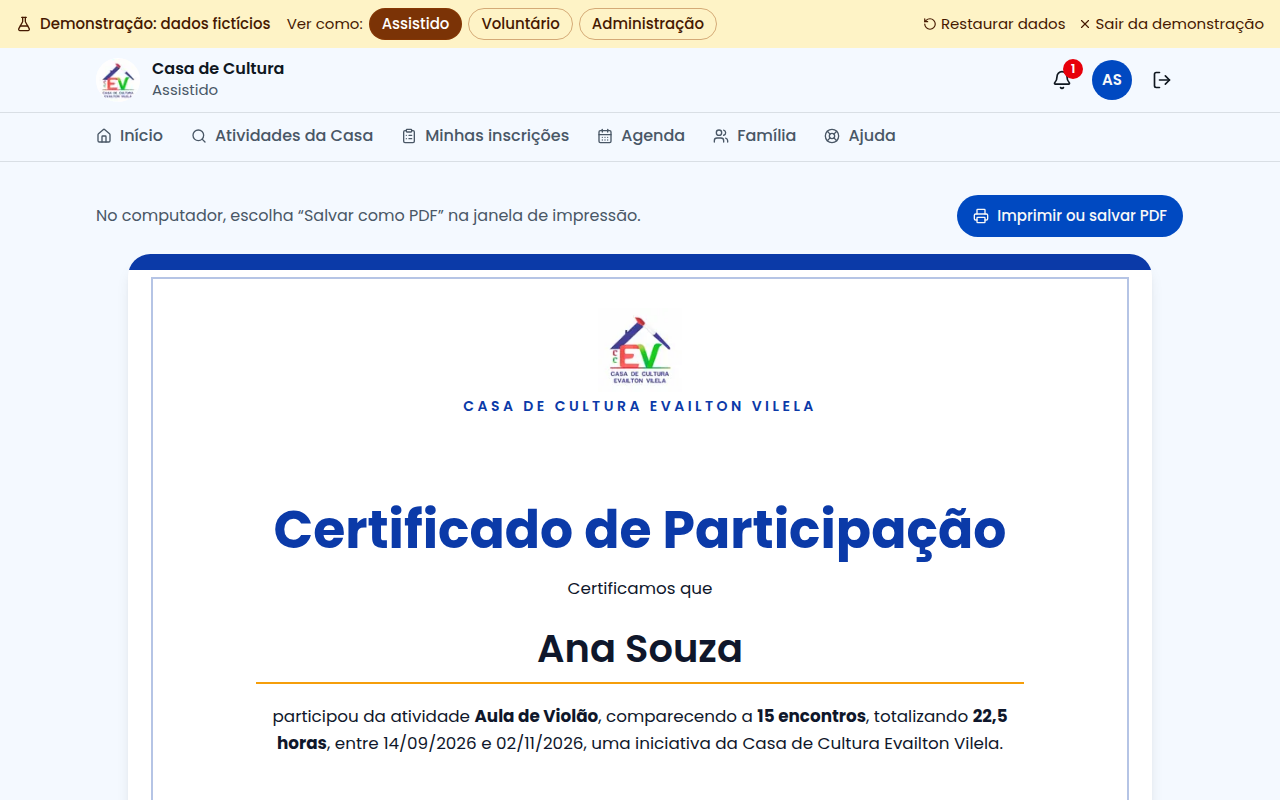
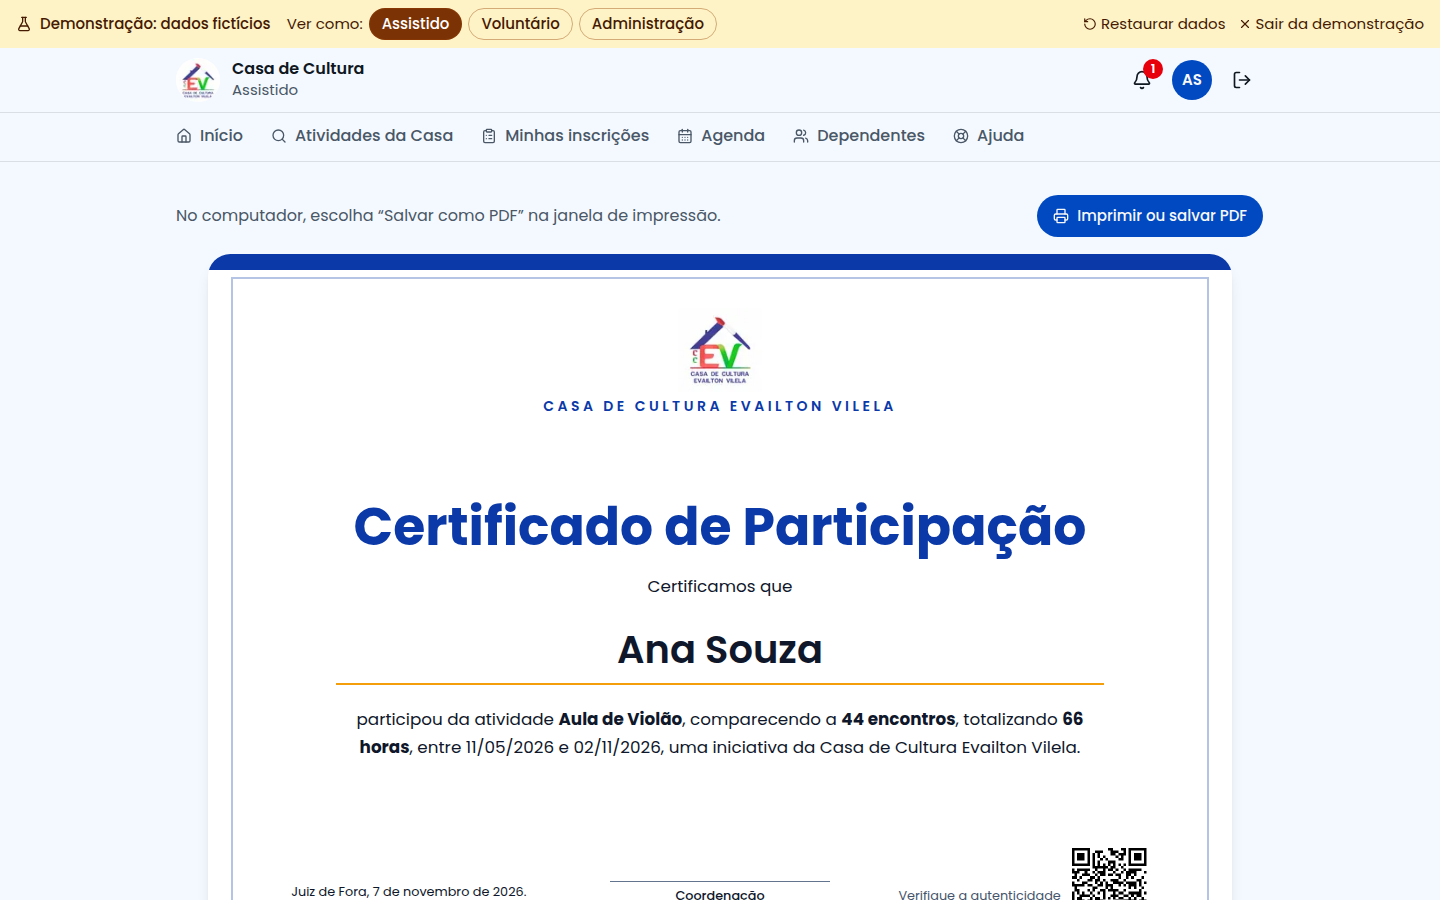
docs(front): guias, roadmap e comunicado atualizados, com novas imagens

diff --git a/front-end/docs/guias/GUIA-ADMINISTRACAO.md b/front-end/docs/guias/GUIA-ADMINISTRACAO.md
@@ -19,7 +19,9 @@ A entrada da administração **não aparece na página inicial**. Acesse o ender
 
 ## Agenda
 
-Mostra tudo o que acontece, em três formatos: **Mês**, **Semana** e **Lista**. O botão **Baixar para o calendário** gera um arquivo para o celular.
+Mostra tudo o que acontece, em três formatos: **Mês**, **Semana** e **Lista**. No mês, clique em um dia para ver os compromissos dele logo abaixo do calendário. O botão **Baixar para o calendário** gera um arquivo para o celular.
+
+No alto, veja quantos encontros há hoje, na semana e no mês, e quantos itens estão sem responsável. Filtre por responsável. Cada compromisso do dia mostra quem conduz, quantos inscritos tem e o botão **Chamada**.
 
 ![Agenda](../img/admin-agenda.png)
 
@@ -38,7 +40,8 @@ Mostra tudo o que acontece, em três formatos: **Mês**, **Semana** e **Lista**.
 1. No menu, escolha o tipo.
 2. Clique em **Novo** (ou **Nova**).
 3. Preencha os campos com asterisco. **A foto é obrigatória**: ela aparece para quem vai se inscrever.
-4. Clique em **Criar**.
+4. Responda se a atividade **emite certificado**.
+5. Clique em **Criar**.
 
 Se faltar algo, o campo fica vermelho e explica o que fazer.
 
@@ -48,33 +51,63 @@ Se faltar algo, o campo fica vermelho e explica o que fazer.
 
 Ao clicar em um item, você vê a foto, as próximas datas, as vagas, a lista de espera, o responsável e um **mapa com o endereço**.
 
-Nessa página você pode abrir a **Chamada**, **Editar**, **Duplicar** (bom para repetir no próximo semestre) e **Excluir**.
+Nessa página você pode abrir a **Chamada**, **Editar**, **Duplicar** (bom para repetir no próximo semestre) e **Excluir**. Se o item emite certificado, é aqui também que você pode **Liberar certificados**.
 
 ![Página de uma oficina](../img/admin-item.png)
 
-## Usuários: conhecer e cuidar de cada pessoa
+## Assistidos: conhecer e cuidar de cada pessoa
 
-As pessoas estão separadas em **Assistidos**, **Voluntários** e **Administração**, além das abas **Pedidos** e **Convites**. Em Assistidos, filtre por quem **precisa de contato**, **tem deficiência** ou **recebe benefício**.
+Em **Gestão > Assistidos** está a lista de quem a Casa atende, com os dependentes, os cuidados e a assiduidade de cada um. Filtre por **com dependentes**, **com cuidados especiais**, **precisam de contato** ou **recebem benefício**.
 
-![Usuários](../img/admin-usuarios.png)
+![Assistidos](../img/admin-assistidos.png)
 
 Clique no nome para abrir a página da pessoa:
 
 | Aba | O que tem |
 |---|---|
-| Resumo | Contato, assiduidade, último acompanhamento e família |
-| Necessidades e condições | Deficiência, o que ajuda essa pessoa, saúde e condição social |
-| Família | Parentes e ligação com a ficha de outros assistidos |
-| Participação | Presença em cada atividade e últimos encontros |
-| Acompanhamento | Visitas, ligações, encaminhamentos e próximos passos |
+| Resumo | Contato, assiduidade, último acompanhamento e dependentes |
+| Necessidades e condições | Deficiência, acessibilidade, o que ajuda, o que evitar, saúde e condição social |
+| Dependentes | Filhos e outros familiares, com os cuidados e as atividades de cada um |
+| Participação | Cada atividade em detalhes, encontro por encontro. Dá para inscrever e tirar |
+| Assiduidade | Barras clicáveis, a conta do número e o histórico completo |
+| Acompanhamento | Linha do tempo de atendimentos, ligações, visitas e próximos passos |
+| Relatório | Resumo para imprimir: o que vai bem e onde dá para ajudar |
 
 ![Página de uma pessoa](../img/admin-pessoa.png)
+
+### Assiduidade
+
+Clique em uma barra para ver cada dia daquele período. Mude entre 8 semanas, 3 meses, 6 meses e tudo. A página mostra a conta: presenças divididas por encontros.
+
+![Assiduidade](../img/admin-assiduidade.png)
+
+### Dependentes
+
+Quando alguém tem filhos ou outros dependentes, cada um pode ser inscrito nas atividades. Ele entra na chamada, ocupa vaga e tem a própria assiduidade. Os cuidados dele ficam junto do cadastro.
+
+![Dependentes](../img/admin-dependentes.png)
 
 Se a pessoa faltou 3 vezes seguidas, um aviso sugere entrar em contato.
 
 > **Cuidado:** essas informações são sensíveis. Registre só o necessário, com o consentimento da pessoa ou do responsável. Os dados pessoais ficam escondidos até você clicar em **Mostrar dados**.
 
-Na página de um voluntário, você vê em quais dias ele pode ajudar, de que forma e quais são seus compromissos.
+## Voluntários
+
+Em **Gestão > Voluntários** você vê o que cada um conduz e quando pode ajudar. Na aba **Pedidos**, responda quem quer ser voluntário. A página de cada voluntário traz horários, atividades, inscritos e dados profissionais.
+
+## Usuários
+
+Em **Suporte > Usuários** ficam as contas de acesso: mude o papel de uma pessoa e envie convites.
+
+## Tabela ou cartões
+
+Em Eventos, Atividades, Oficinas, Assistência e Centros, escolha ver em **Tabela** ou **Cartões**, com foto. O sistema lembra da sua escolha.
+
+![Lista em cartões](../img/admin-cartoes.png)
+
+## Presença: sempre no diário
+
+A página de cada item mostra o **Diário de presença**: um dia por linha, com quantos vieram. Clique no dia para abrir a chamada. O quadro de inscritos mostra quem é cada pessoa, os dependentes e os cuidados.
 
 ## Relatórios
 
@@ -82,9 +115,10 @@ Escolha o período, a área e a unidade. Os números mostram a diferença em rel
 
 | Aba | O que mostra |
 |---|---|
-| Panorama | Presença mês a mês, destaques e metas |
+| Panorama | O que está indo bem, presença mês a mês e metas |
 | Participação | Tabela com cada item |
-| Pessoas | Quem precisa de contato e o perfil do público |
+| Pessoas | Frequentes, irregulares e quem precisa de contato, com link para o relatório de cada um |
+| Quem a Casa atende | Famílias, dependentes, idade, bairros e cuidados |
 
 Depois, baixe a planilha ou salve em PDF para enviar a parceiros.
 

diff --git a/front-end/docs/comunicados/2026-11-07-v1.7.0.md b/front-end/docs/comunicados/2026-11-07-v1.7.0.md
@@ -2,31 +2,41 @@
 
 ## Em uma frase
 
-O sistema ficou mais próximo das pessoas: agora dá para conhecer e cuidar de cada assistido, fazer a chamada dia a dia e ver tudo com fotos e mapas.
+O sistema ficou mais próximo das pessoas: agora dá para conhecer e cuidar de cada assistido e de seus dependentes, fazer a chamada dia a dia e ver tudo com fotos e mapas.
 
 ## O que mudou para cada pessoa
 
 ### Administração
 
-- **Usuários:** cada assistido tem uma página com necessidades, saúde, condição social, família, assiduidade e histórico de acompanhamento.
-- **Filtros de cuidado:** dá para ver quem precisa de contato, quem tem deficiência e quem recebe benefício.
+- **Gestão:** agora tem Assistidos e Voluntários. As contas de acesso foram para Suporte, em Usuários.
+- **Página de cada assistido:** necessidades, dependentes, participação em detalhes, assiduidade, acompanhamento e relatório individual para imprimir.
+- **Assiduidade:** clique em uma barra para ver cada dia. A página mostra a conta e o histórico completo.
+- **Dependentes:** filhos e outros familiares podem ser inscritos nas atividades. Entram na chamada, ocupam vaga e têm os próprios cuidados e frequência.
+- **Presença no diário:** a página de cada item mostra um dia por linha. O quadro de inscritos mostra quem é cada pessoa e seus cuidados.
+- **Listas:** eventos, atividades, oficinas, assistência e centros podem ser vistos em tabela ou cartões.
 - **Visão geral:** novo quadro com eventos, atividades, oficinas e assistência. "Precisa de atenção" agora é a última parte.
-- **Relatórios:** comparação com o período anterior, destaques, quem precisa de contato e perfil do público.
-- **Cadastros:** a foto agora é obrigatória, e cada item mostra um mapa com o endereço.
+- **Relatórios:** novo quadro “O que está indo bem”, pessoas frequentes, irregulares e que precisam de contato, e a aba Quem a Casa atende.
+- **Cadastros:** a foto agora é obrigatória, e cada item mostra um mapa com o endereço. Também é preciso dizer se a atividade emite certificado.
+- **Agenda:** calendário maior, com o dia embaixo, resumo, filtro por responsável e atalho para a chamada.
 
 ### Voluntário
 
 - **Compromissos dia a dia:** mostra só as datas que existem de fato e avisa as chamadas pendentes.
 - **Chamada por dia:** escolha a data e marque quem veio naquele dia.
 - **Check-in:** agora fica dentro da chamada de cada atividade e dia. O assistido mostra o QR Code ao chegar.
-- **Minha ficha:** dias e períodos em que pode ajudar, e de que forma.
-- **Agenda:** opção de ver só os meus compromissos ou todos da Casa.
+- **Minhas atividades:** cada atividade tem sua página, com o diário de presença e os inscritos.
+- **Meus assistidos:** quem está nas suas atividades, quem precisa de contato e o que ajuda a acolher cada pessoa.
+- **Minha ficha:** horário exato de cada dia, coisas que pode fazer, atividades em que quer ajudar e dados profissionais.
+- **Certificados:** libera os certificados dos inscritos no final e baixa o seu pelo trabalho conduzido.
+- **Agenda:** calendário maior, com o dia embaixo, e opção de ver só os meus compromissos ou todos da Casa.
 
 ### Assistido
 
 - **Atividades da Casa:** tudo o que é oferecido, com fotos, separado entre o que já faz e no que pode se inscrever.
+- **Dependentes:** cadastro dos filhos com os cuidados de cada um, inscrição nas atividades e frequência.
 - **Minhas inscrições:** próxima data de cada item e quantas vezes compareceu.
-- **Certificado:** novo modelo, com número de encontros e horas.
+- **Certificado:** novo modelo, com encontros e horas. Fica disponível quando o responsável libera.
+- **Agenda:** calendário maior, com o dia embaixo.
 
 ### Página inicial
 
@@ -49,7 +59,7 @@ O sistema ficou mais próximo das pessoas: agora dá para conhecer e cuidar de c
 - A página **/admin-signup** continua aberta: qualquer pessoa consegue criar uma conta de administrador. Isso precisa ser fechado antes de usar o sistema com pessoas reais.
 - Os textos de termos de uso e privacidade são modelos. Precisam de revisão jurídica.
 - As fichas guardam dados sensíveis, como saúde e deficiência. Antes de usar com pessoas reais, é preciso definir quem pode ver e pedir o consentimento.
-- As fotos da demonstração são de bancos de imagens livres e não mostram a Casa de Cultura.
+- As fotos da demonstração são de licença livre, em sua maioria do Brasil, com créditos em public/demo/CREDITOS.md. Elas não mostram a Casa de Cultura e precisam ser trocadas por fotos próprias, com autorização, antes do uso real.
 
 ## Se você já tinha baixado o projeto
 

diff --git a/front-end/docs/guias/GUIA-VOLUNTARIO.md b/front-end/docs/guias/GUIA-VOLUNTARIO.md
@@ -1,6 +1,6 @@
 # Guia do Voluntário
 
-Este guia é para quem conduz atividades, oficinas e eventos. Com o sistema você vê seus compromissos dia a dia e faz a chamada de quem está inscrito.
+Este guia é para quem conduz atividades, oficinas e eventos. Com o sistema você vê seus compromissos dia a dia, faz a chamada, acompanha suas atividades e as pessoas inscritas nelas.
 
 ## Como entrar
 
@@ -10,7 +10,7 @@ Ainda não é voluntário? Em **Ainda não tem conta?**, clique em **Quero ajuda
 
 ## Compromissos dia a dia
 
-A tela inicial mostra só as datas que existem de fato: primeiro as chamadas pendentes, depois hoje e os próximos dias. Na opção **Por atividade**, você vê tudo agrupado.
+A tela inicial mostra só as datas que existem de fato: primeiro as chamadas pendentes, depois hoje e os próximos dias.
 
 ![Compromissos](../img/voluntario-inicio.png)
 
@@ -41,6 +41,15 @@ Ele fica dentro da chamada, no quadro **Check-in de quem chegou**, e vale para a
 
 Se a câmera não funcionar, digite o código que aparece abaixo do QR Code. Se a pessoa não estiver inscrita, o sistema pergunta se você quer inscrevê-la e marcar a presença.
 
+## Certificados
+
+Se a atividade emite certificado, quando ela terminar:
+
+1. Abra a chamada e clique em **Liberar certificados**.
+2. Quem tem presença recebe um aviso e pode baixar o seu.
+
+**Você também tem certificado** pelo trabalho que conduziu. Abra **Certificados** e clique em **Baixar meu certificado**. Ele mostra os encontros e as horas.
+
 ## Sem internet
 
 Pode continuar marcando a presença. Um aviso mostra o que ficou guardado, e tudo é enviado quando a conexão voltar.
@@ -55,15 +64,32 @@ O sistema foi feito para ser usado durante a atividade, no celular. Dá para ins
 
 Escolha entre **Só os meus** e **Todos da Casa**, em formato de mês, semana ou lista.
 
+## Minhas atividades
+
+Mostra tudo o que está sob sua responsabilidade. Abra uma atividade para ver:
+
+- o diário de presença: cada dia, com quantos vieram e as chamadas que faltam;
+- quem está inscrito, os dependentes e os cuidados de cada pessoa;
+- as próximas datas, a lista de espera e o mapa.
+
+![Página de uma atividade](../img/voluntario-atividade.png)
+
+## Meus assistidos
+
+Mostra as pessoas inscritas nas suas atividades. Filtre por quem **precisa de contato** ou tem **cuidados especiais**. Ao abrir uma pessoa, você vê a frequência, o que ajuda a acolher e o contato de emergência, e pode escrever uma observação para a coordenação.
+
+Você vê só o necessário para acolher bem. Dados como renda e benefícios ficam com a administração. Trate tudo com discrição.
+
+![Meus assistidos](../img/voluntario-assistidos.png)
+
 ## Minha ficha
 
-Conte quando e como pode ajudar:
+Quanto mais completa, melhor a coordenação consegue organizar:
 
-- os dias e períodos livres;
-- as áreas em que pode ajudar, como música ou reforço escolar;
-- sua formação e experiência.
-
-A coordenação usa essas informações para organizar a programação.
+- **Quando posso ajudar:** os dias e o horário exato;
+- **O que a Casa já oferece e eu quero ajudar:** marque as atividades e veja quais combinam com seus horários;
+- **Coisas que posso fazer:** escolha entre as sugestões ou escreva outra ideia;
+- **Dados profissionais e pessoais:** profissão, formação, habilidades e contatos.
 
 ![Minha ficha](../img/voluntario-ficha.png)
 

diff --git a/front-end/docs/ROADMAP.md b/front-end/docs/ROADMAP.md
@@ -62,7 +62,12 @@ Tudo abaixo funciona no **modo demonstração**. Os itens com 🔗 ainda precisa
 
 ### v1.7 Cuidado e rotina ✅ protótipo (esta entrega)
 - **Pessoas:** página do assistido com necessidades, saúde, condição social, família ligada, assiduidade e acompanhamento 🔗.
-- **Voluntário:** compromissos dia a dia, chamada por data com check-in dentro da atividade 🔗 e ficha de disponibilidade 🔗.
+- **Voluntário:** compromissos dia a dia, chamada por data com check-in dentro da atividade 🔗, ficha com horários exatos e dados profissionais 🔗, Minhas atividades com página própria e Meus assistidos 🔗.
+- **Certificados:** o criador define se a atividade emite certificado, o responsável libera no final e o voluntário também recebe o seu 🔗.
+- **Calendário:** maior, em largura total, com o quadro do dia embaixo. Na administração, com resumo, filtro por responsável e atalho para a chamada.
+- **Dependentes:** cadastro com cuidados e inscrição nas atividades, com chamada e assiduidade próprias 🔗.
+- **Acompanhamento individual:** assiduidade clicável com histórico, participação em detalhes, linha do tempo e relatório individual 🔗.
+- **Gestão:** Assistidos e Voluntários separados de Usuários; listas em tabela ou cartões; presença só no diário de cada dia.
 - **Assistido:** Atividades da Casa com fotos, abas do que participa e do que pode se inscrever; certificado novo.
 - **Administração:** quadro por tipo na Visão geral, relatórios com comparação e foto obrigatória 🔗.
 - **Mapa** do endereço em cada item, sem custo.

diff --git a/front-end/docs/guias/GUIA-ASSISTIDO.md b/front-end/docs/guias/GUIA-ASSISTIDO.md
@@ -44,13 +44,15 @@ Clique em **Entrar na lista de espera**. Se abrir uma vaga, você entra sozinho 
 
 ## Minhas inscrições
 
-Para cada item, você vê a próxima data e quantas vezes compareceu. Quando sua presença for confirmada, aparece o botão **Certificado**. Para sair de um item, clique em **Cancelar inscrição**.
+Para cada item, você vê a próxima data e quantas vezes compareceu. Para sair de um item, clique em **Cancelar inscrição**.
 
 ![Minhas inscrições](../img/assistido-inscricoes.png)
 
 ## Seu certificado
 
-Mostra seu nome, a atividade, os encontros e as horas. Clique em **Imprimir ou salvar PDF**.
+Nem toda atividade emite certificado. Quando emite, o responsável libera no final e você recebe um aviso no sino. Depois, em **Minhas inscrições**, clique em **Baixar certificado**.
+
+Ele mostra seu nome, a atividade, os encontros e as horas. Clique em **Imprimir ou salvar PDF**.
 
 ![Certificado](../img/assistido-certificado.png)
 
@@ -60,10 +62,10 @@ Ao chegar, abra **Meu QR Code**, na tela de Início, e mostre ao voluntário. El
 
 ![Meu QR Code](../img/assistido-qr.png)
 
-## Agenda e família
+## Agenda e dependentes
 
 - **Agenda:** veja só os seus compromissos ou todos da Casa. Dá para enviar ao calendário do celular.
-- **Família:** cadastre filhos e dependentes e escolha a atividade de cada um.
+- **Dependentes:** cadastre seus filhos e outros dependentes, conte os cuidados de cada um, inscreva nas atividades e acompanhe a frequência. Na página de uma atividade, também dá para inscrever direto.
 
 ## Sua conta
 
